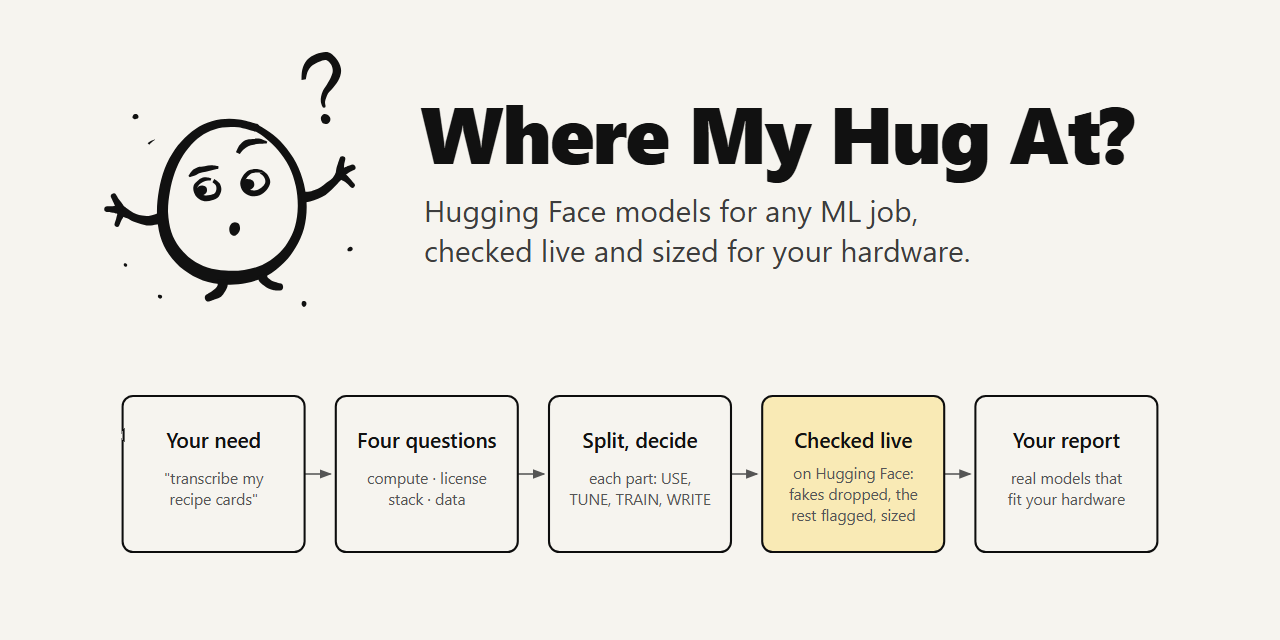
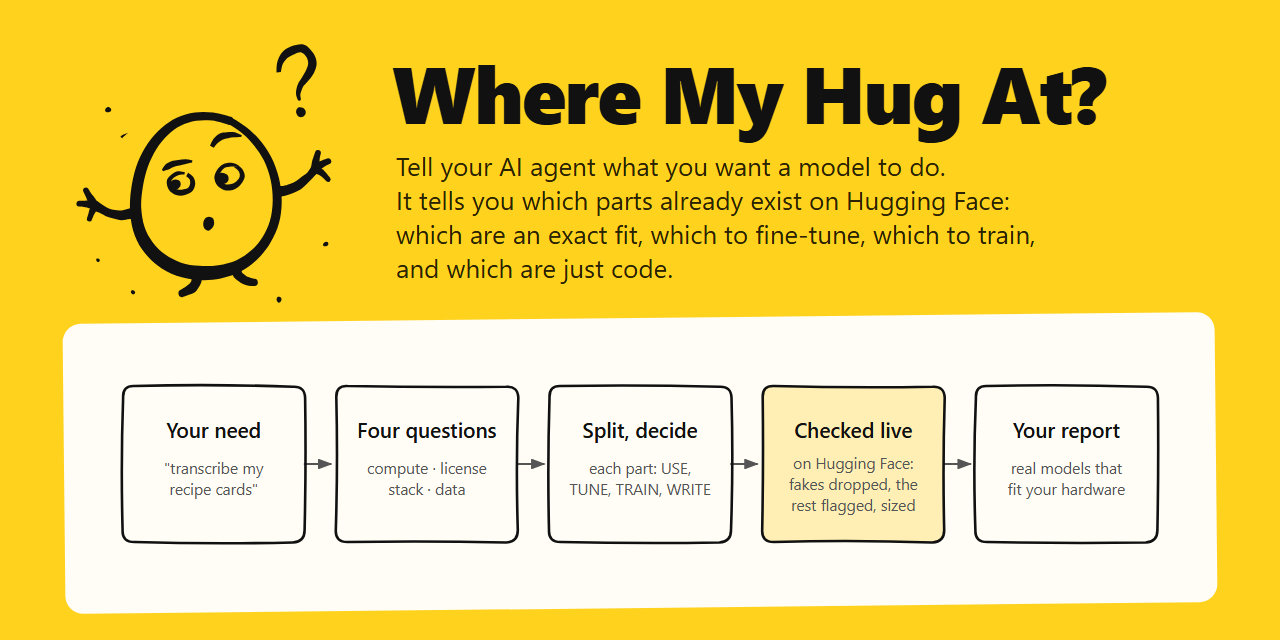
A yellow social card, and diagram boxes drawn without tearing
The social card is Hugging Face yellow: the mascot, title and the new
blurb (which parts already exist on Hugging Face: an exact fit, fine-tune,
train, or just code) over the five steps on a sheet of paper. The README's
opening says the same.

The diagram's boxes lose the wobble filter, which tore thin lines in a few
places; their hand-drawn bow is now baked into the outlines instead.

diff --git a/README.md b/README.md
@@ -22,9 +22,9 @@
 </p>
 
 Tell your AI agent what you want a model to do. It tells you which parts
-Hugging Face already has, which to fine-tune, which to train, and which are
-just code, and every model it names is real, current, and sized for your
-hardware.
+already exist on Hugging Face: which are an exact fit, which to fine-tune,
+which to train, and which are just code. Every model it names is real,
+current, and sized for your hardware.
 
 Works with Claude Code, Codex, Copilot, Cursor, Gemini CLI, Cline, Devin, Open
 WebUI and any other MCP client, or as an Agent Skill.
